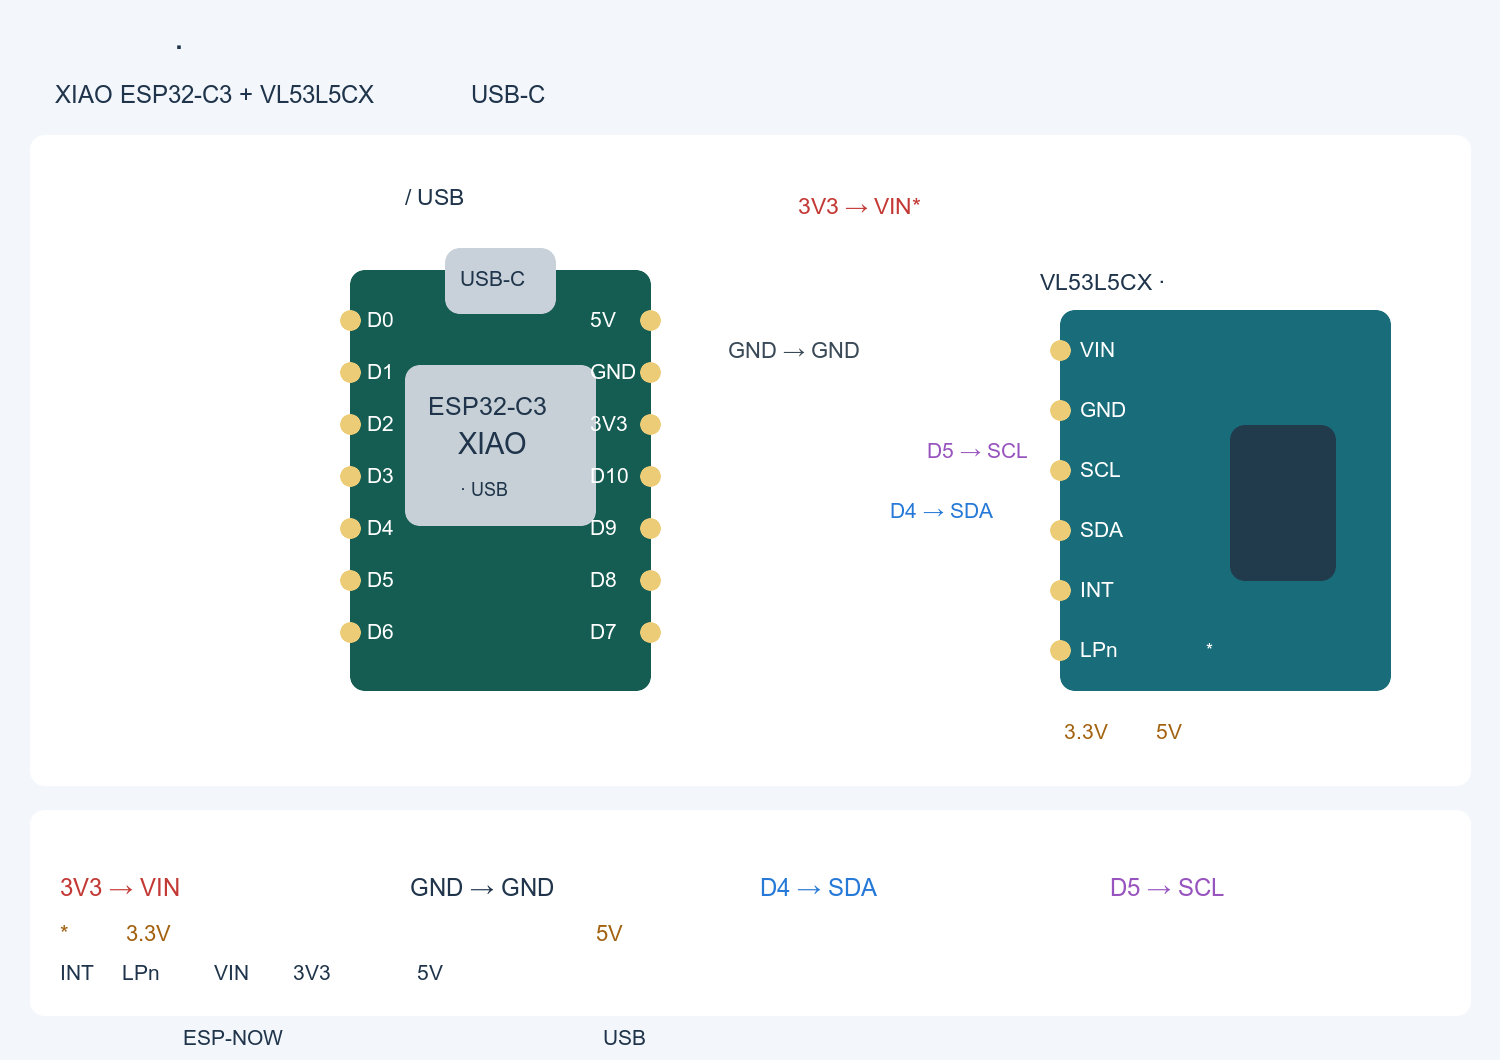
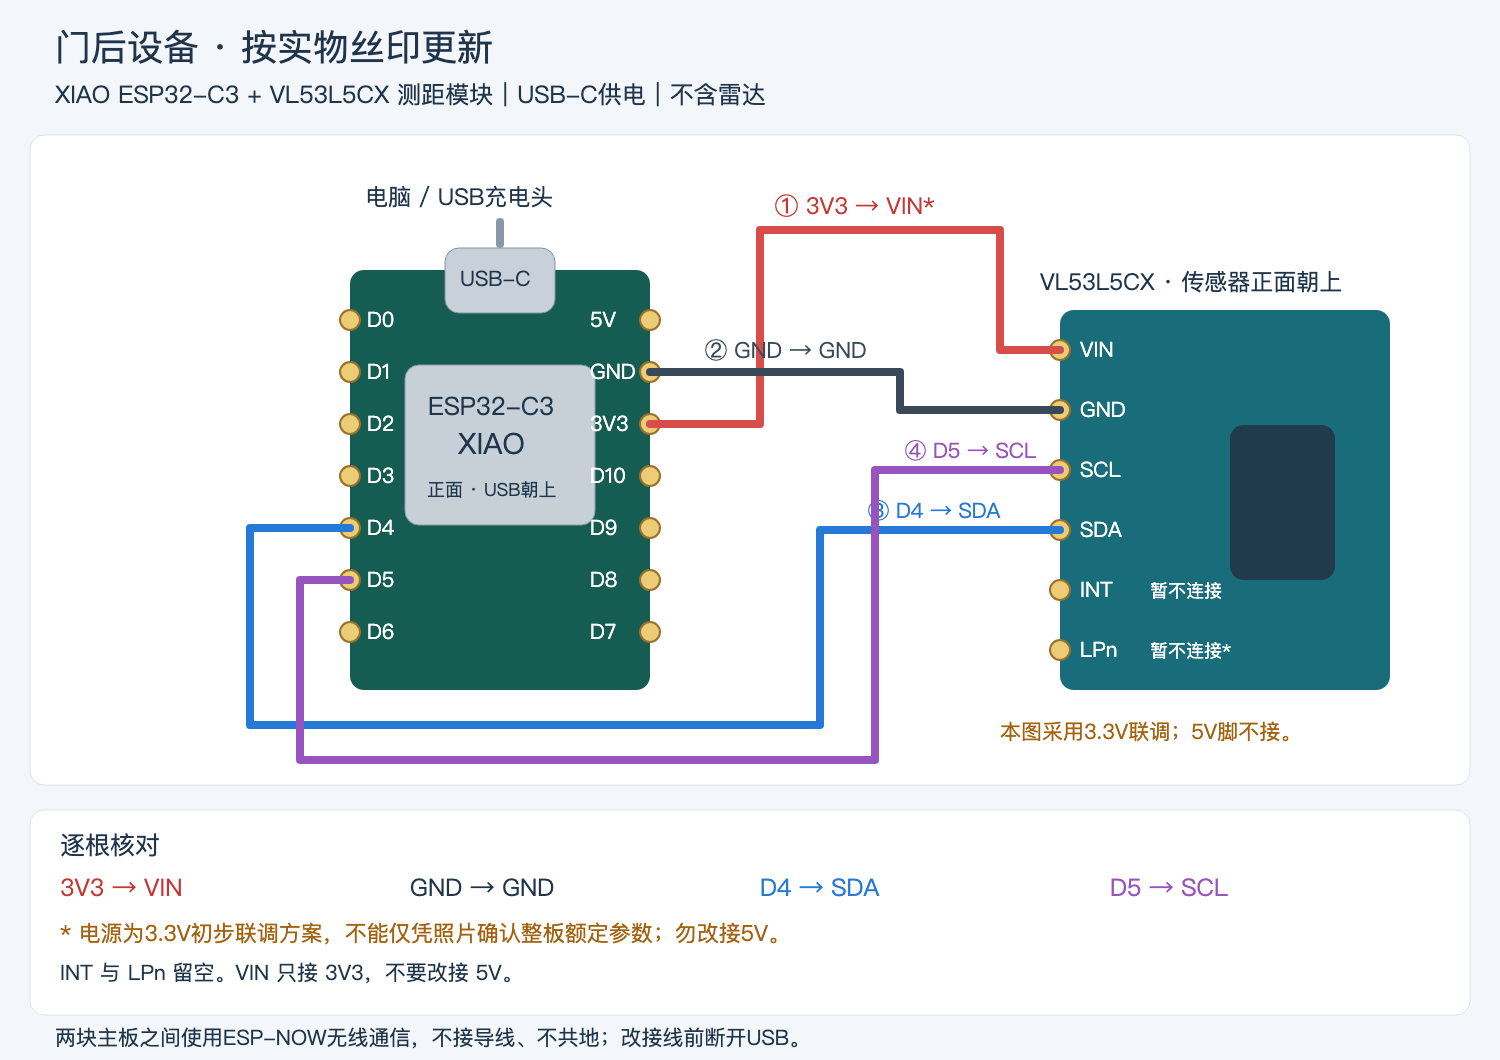
补上接线图里的连线，并列出杜邦线、排针和 USB 线。

diff --git a/docs/front-wiring.html b/docs/front-wiring.html
@@ -8,7 +8,7 @@
 <rect x="745" y="278" width="110" height="65" rx="14" fill="#c8d1d9" stroke="#8294a2"/>
 <text x="759" y="316" style="font-size:21px;fill:#20354b">USB-C</text>
 <text x="682" y="242" style="font-size:23px;fill:#20354b">USB线连接电脑供电</text>
-<polyline points="800,265 800,200" fill="none" stroke="#8796a5" stroke-width="6" stroke-linecap="round" stroke-linejoin="round"/>
+<polyline points="800,265 800,200" fill="none" stroke="#8796a5" stroke-width="8" stroke-linecap="round" stroke-linejoin="round"/>
 <rect x="703" y="375" width="194" height="175" rx="14" fill="#c6d0d6" stroke="#8b9da6"/>
 <text x="728" y="425" style="font-size:25px;fill:#20354b">ESP32-C3</text>
 <text x="756" y="464" style="font-size:29px;fill:#20354b">XIAO</text>
@@ -71,18 +71,18 @@
 <text x="1250" y="761" style="font-size:20px;fill:#ffffff">GND</text>
 <text x="1175" y="802" style="font-size:20px;fill:#20354b">模块须带限流电阻</text>
 <text x="1175" y="833" style="font-size:18px;fill:#20354b">这里只示意端子，不代表排列</text>
-<polyline points="950,454 1060,454 1060,185 470,185 470,520 390,520" fill="none" stroke="#d44b47" stroke-width="6" stroke-linecap="round" stroke-linejoin="round"/>
+<polyline points="950,454 1060,454 1060,185 470,185 470,520 390,520" fill="none" stroke="#d44b47" stroke-width="8" stroke-linecap="round" stroke-linejoin="round"/>
 <text x="485" y="174" style="font-size:22px;fill:#c03935">① 3V3 → VCC</text>
-<polyline points="390,560 540,560 540,454 650,454" fill="none" stroke="#1b91bc" stroke-width="6" stroke-linecap="round" stroke-linejoin="round"/>
+<polyline points="390,560 540,560 540,454 650,454" fill="none" stroke="#1b91bc" stroke-width="8" stroke-linecap="round" stroke-linejoin="round"/>
 <text x="405" y="429" style="font-size:22px;fill:#167b9f">② OUT → D2</text>
-<polyline points="950,506 1230,506" fill="none" stroke="#249961" stroke-width="6" stroke-linecap="round" stroke-linejoin="round"/>
+<polyline points="950,506 1230,506" fill="none" stroke="#249961" stroke-width="8" stroke-linecap="round" stroke-linejoin="round"/>
 <text x="985" y="491" style="font-size:20px;fill:#20874f">③ D10 → G</text>
-<polyline points="950,662 1230,662" fill="none" stroke="#b8870d" stroke-width="6" stroke-linecap="round" stroke-linejoin="round"/>
+<polyline points="950,662 1230,662" fill="none" stroke="#b8870d" stroke-width="8" stroke-linecap="round" stroke-linejoin="round"/>
 <text x="985" y="645" style="font-size:20px;fill:#967008">④ D7 → Y</text>
-<polyline points="650,662 610,662 610,718 1230,718" fill="none" stroke="#db4f77" stroke-width="6" stroke-linecap="round" stroke-linejoin="round"/>
+<polyline points="650,662 610,662 610,718 1230,718" fill="none" stroke="#db4f77" stroke-width="8" stroke-linecap="round" stroke-linejoin="round"/>
 <text x="985" y="705" style="font-size:20px;fill:#c93661">⑤ D6 → R</text>
-<polyline points="950,402 1110,402 1110,870" fill="none" stroke="#394957" stroke-width="6" stroke-linecap="round" stroke-linejoin="round"/>
-<polyline points="390,600 440,600 440,870 1180,870 1180,754 1230,754" fill="none" stroke="#394957" stroke-width="6" stroke-linecap="round" stroke-linejoin="round"/>
+<polyline points="950,402 1110,402 1110,870" fill="none" stroke="#394957" stroke-width="8" stroke-linecap="round" stroke-linejoin="round"/>
+<polyline points="390,600 440,600 440,870 1180,870 1180,754 1230,754" fill="none" stroke="#394957" stroke-width="8" stroke-linecap="round" stroke-linejoin="round"/>
 <circle cx="1110" cy="870" r="8" fill="#394957"/>
 <text x="600" y="850" style="font-size:22px;fill:#394957">⑥ GND共地：AM312 GND + 信号灯GND</text>
 <rect x="35" y="935" width="1530" height="235" rx="14" fill="#ffffff" stroke="#dce4ec"/>

diff --git a/docs/rear-wiring.html b/docs/rear-wiring.html
@@ -8,7 +8,7 @@
 <rect x="445" y="248" width="110" height="65" rx="14" fill="#c8d1d9" stroke="#8294a2"/>
 <text x="460" y="286" style="font-size:21px;fill:#20354b">USB-C</text>
 <text x="365" y="205" style="font-size:23px;fill:#20354b">电脑 / USB充电头</text>
-<polyline points="500,222 500,244" fill="none" stroke="#8898a6" stroke-width="6" stroke-linecap="round" stroke-linejoin="round"/>
+<polyline points="500,222 500,244" fill="none" stroke="#8898a6" stroke-width="8" stroke-linecap="round" stroke-linejoin="round"/>
 <rect x="405" y="365" width="190" height="160" rx="14" fill="#c6d0d6" stroke="#8b9da6"/>
 <text x="428" y="415" style="font-size:25px;fill:#20354b">ESP32-C3</text>
 <text x="458" y="454" style="font-size:29px;fill:#20354b">XIAO</text>
@@ -56,13 +56,13 @@
 <text x="1080" y="597" style="font-size:21px;fill:#ffffff">INT</text>
 <circle cx="1060" cy="650" r="10" fill="#edcc78" stroke="#98712a" stroke-width="2"/>
 <text x="1080" y="657" style="font-size:21px;fill:#ffffff">LPn</text>
-<polyline points="650,424 760,424 760,230 1000,230 1000,350 1060,350" fill="none" stroke="#d64d49" stroke-width="6" stroke-linecap="round" stroke-linejoin="round"/>
+<polyline points="650,424 760,424 760,230 1000,230 1000,350 1060,350" fill="none" stroke="#d64d49" stroke-width="8" stroke-linecap="round" stroke-linejoin="round"/>
 <text x="775" y="214" style="font-size:23px;fill:#c33935">① 3V3 → VIN*</text>
-<polyline points="650,372 900,372 900,410 1060,410" fill="none" stroke="#394957" stroke-width="6" stroke-linecap="round" stroke-linejoin="round"/>
+<polyline points="650,372 900,372 900,410 1060,410" fill="none" stroke="#394957" stroke-width="8" stroke-linecap="round" stroke-linejoin="round"/>
 <text x="705" y="358" style="font-size:22px;fill:#394957">② GND → GND</text>
-<polyline points="350,528 250,528 250,725 820,725 820,530 1060,530" fill="none" stroke="#2679d6" stroke-width="6" stroke-linecap="round" stroke-linejoin="round"/>
+<polyline points="350,528 250,528 250,725 820,725 820,530 1060,530" fill="none" stroke="#2679d6" stroke-width="8" stroke-linecap="round" stroke-linejoin="round"/>
 <text x="868" y="518" style="font-size:21px;fill:#2679d6">③ D4 → SDA</text>
-<polyline points="350,580 300,580 300,760 875,760 875,470 1060,470" fill="none" stroke="#9854be" stroke-width="6" stroke-linecap="round" stroke-linejoin="round"/>
+<polyline points="350,580 300,580 300,760 875,760 875,470 1060,470" fill="none" stroke="#9854be" stroke-width="8" stroke-linecap="round" stroke-linejoin="round"/>
 <text x="905" y="458" style="font-size:21px;fill:#9854be">④ D5 → SCL</text>
 <text x="1150" y="597" style="font-size:18px;fill:#ffffff">暂不连接</text>
 <text x="1150" y="657" style="font-size:18px;fill:#ffffff">暂不连接*</text>

diff --git a/docs/draw_front_wiring.py b/docs/draw_front_wiring.py
@@ -8,7 +8,9 @@ def text(x,y,t,size=22,color='#20354b'):
 def box(x,y,w,h,color,stroke='none'):
     s.append(f'<rect x="{x}" y="{y}" width="{w}" height="{h}" rx="14" fill="{color}" stroke="{stroke}"/>')
 def line(points,color,dash=False):
-    s.append(f'<polyline points="{" ".join(f"{x},{y}" for x,y in points)}" fill="none" stroke="{color}" stroke-width="6" stroke-linecap="round" stroke-linejoin="round"'+(' stroke-dasharray="10 8"' if dash else '')+'/>')
+    pts=" ".join(f"{x},{y}" for x,y in points)
+    dash_attr=' stroke-dasharray="10 8"' if dash else ''
+    s.append(f'<polyline points="{pts}" fill="none" stroke="{color}" stroke-width="8" stroke-linecap="round" stroke-linejoin="round"{dash_attr}/>')
 def pad(x,y):
     s.append(f'<circle cx="{x}" cy="{y}" r="10" fill="#edcc78" stroke="#98712a" stroke-width="2"/>')
 def dot(x,y):
@@ -78,7 +80,7 @@ rows=[('AM312 VCC → 3V3','AM312 OUT → D2 / GPIO4','AM312 GND → GND'),('信
 for j,row in enumerate(rows):
     for i,t in enumerate(row):text(65+i*505,1020+j*42,t,22)
 text(65,1110,'信号灯 GND → GND；G是绿灯输入，GND才是接地。线交叉无圆点表示不相连。',22)
-text(65,1148,'AM312须支持3.3V供电；信号灯3.3V亮度待实测。改接线前拔掉USB。外设尚未实物验证。',20,'#965814')
+text(65,1148,'AM312 接 3.3V。信号灯为共阴且须自带限流电阻。改接线前拔掉 USB。',20,'#965814')
 text(60,1202,'按XIAO ESP32-C3引脚绘制；若开发板外形/丝印不同，请勿照图直接接线。',20)
 s.append('</svg>')
 svg='\n'.join(s)

diff --git a/docs/draw_rear_wiring.py b/docs/draw_rear_wiring.py
@@ -8,7 +8,9 @@ def text(x,y,t,size=22,color='#20354b'):
 def box(x,y,w,h,c,stroke='none'):
  s.append(f'<rect x="{x}" y="{y}" width="{w}" height="{h}" rx="14" fill="{c}" stroke="{stroke}"/>')
 def line(p,c,dash=False):
- s.append(f'<polyline points="{" ".join(f"{x},{y}" for x,y in p)}" fill="none" stroke="{c}" stroke-width="6" stroke-linecap="round" stroke-linejoin="round"'+(' stroke-dasharray="12 9"' if dash else '')+'/>')
+ pts=" ".join(f"{x},{y}" for x,y in p)
+ dash=' stroke-dasharray="12 9"' if dash else ''
+ s.append(f'<polyline points="{pts}" fill="none" stroke="{c}" stroke-width="8" stroke-linecap="round" stroke-linejoin="round"{dash}/>')
 def pad(x,y):
  s.append(f'<circle cx="{x}" cy="{y}" r="10" fill="#edcc78" stroke="#98712a" stroke-width="2"/>')
 text(55,60,'门后设备 · 按实物丝印更新',36)
@@ -53,7 +55,7 @@ text(410,896,'GND → GND',24)
 text(760,896,'D4 → SDA',24,'#2679d6')
 text(1110,896,'D5 → SCL',24,'#9854be')
 text(60,941,'* 电源为3.3V初步联调方案，不能仅凭照片确认整板额定参数；勿改接5V。',22,'#a26210')
-text(60,980,'INT留空；LPn先留空，若通信扫描失败再核对其上拉电路。未验证实际测距。',21)
+text(60,980,'INT 与 LPn 留空。VIN 只接 3V3，不要改接 5V。',21)
 text(55,1045,'两块主板之间使用ESP-NOW无线通信，不接导线、不共地；改接线前断开USB。',21)
 s.append('</svg>')
 svg='\n'.join(s)

diff --git a/README.md b/README.md
@@ -20,8 +20,12 @@
 | 1 | VL53L5CX 8×8 测距模块 | [Pololu #3417](https://www.pololu.com/product/3417) |
 | 1 | AM312 微型人体红外模块，需能在 3.3V 工作 | [TinyTronics AM312](https://www.tinytronics.nl/en/sensors/motion/ir-pyroelectric-infrared-pir-motion-sensor-detector-module-mini) |
 | 1 | 共阴红黄绿信号灯，高电平点亮，模块自带限流电阻 | [Cytron 交通灯模块](https://www.cytron.io/p-traffic-light-led-module) |
+| 1 包 | 母对母杜邦线，2.54mm。门后用 4 根，门前用 7 根 | [Seeed 母对母杜邦线，100mm，50 根](https://www.seeedstudio.com/1-pin-dual-female-jumper-wire-100mm-50pcs-pack-p-260.html) |
+| 1 包 | XIAO 两侧 7 针排针。两块板共 4 排 | [Seeed XIAO 7 针排针，5 条](https://www.seeedstudio.com/XIAO-Series-7-Pin-Male-Header-5-pcs-p-5460.html) |
+| 1 条 | 测距模块用的 2.54mm 单排针，至少 6 位。可从 40 位排针上剪下来 | [SparkFun 40 位排针](https://www.sparkfun.com/products/116) |
+| 2 | USB-C 数据线，用来供电和烧录 | [Seeed USB-C 转 USB-A，1 米](https://www.seeedstudio.com/USB-3-1-Type-C-to-A-Cable-1-Meter-3-1A-p-4085.html) |
 
-调试时两块板都用 USB-C 供电。排针要焊牢，不能只把杜邦线插在孔里。改接线前先拔掉 USB。
+调试时两块板都用 USB-C 供电。排针先焊在开发板和测距模块上，再用母对母杜邦线连接，不能只把线插在未焊接的孔里。改接线前先拔掉 USB。电烙铁和焊锡按手头现有的用即可。
 
 下面两张接线图按这块六针测距模块绘制，引脚从上到下是 VIN、GND、SCL、SDA、INT、LPn。Pololu #3417 是同一颗传感器的载板，引脚排列不同，买到后按载板丝印接线，不要照着这张图的孔位插。信号灯和红外模块也以板上的字母为准，不按灯珠排列或导线颜色判断。
 
